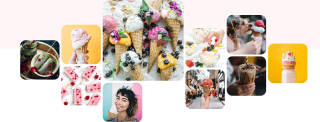
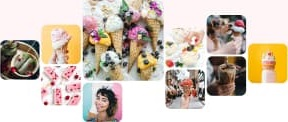
fix bag

diff --git a/src/partials/gallery.html b/src/partials/gallery.html
@@ -24,11 +24,11 @@
           ./images/mobile/collage-mob@2x.jpg 2x
         "
         media="(max-width: (768px - 0.02px))"
-        type="image/jpg"
+        type="image/jpg"  
       />
       <img
         class="gallery__collage"
-        src=""
+        src="./images/mobile/collage-mob@2x.jpg"
         alt="Фото людей с мороженным"
         width="288"
         height="122"
